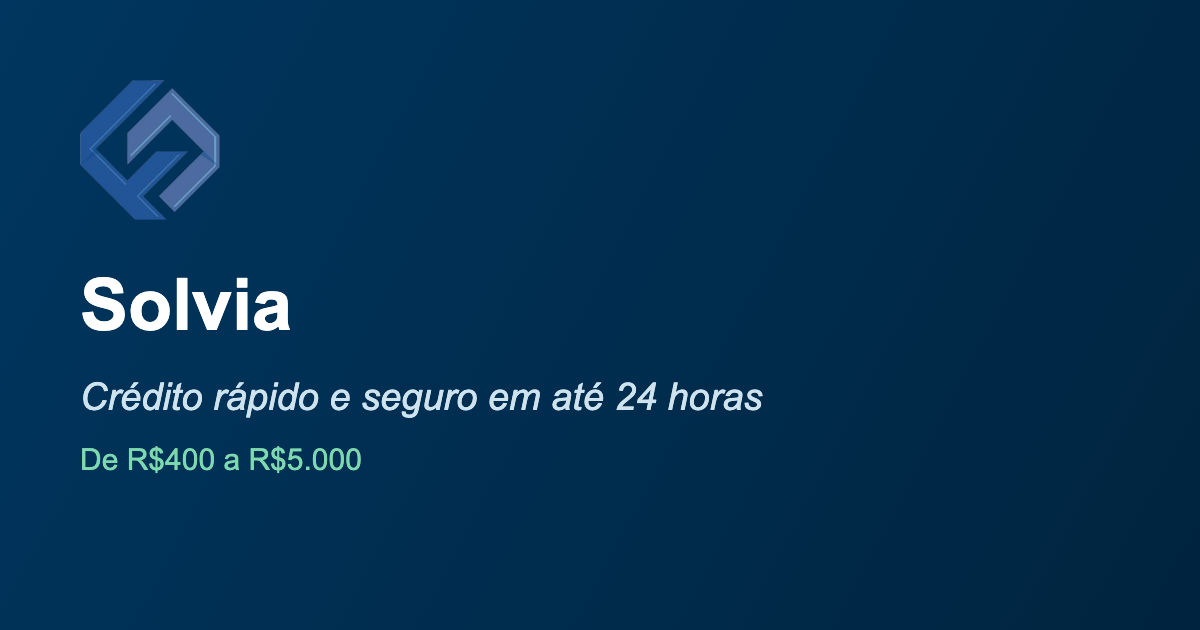
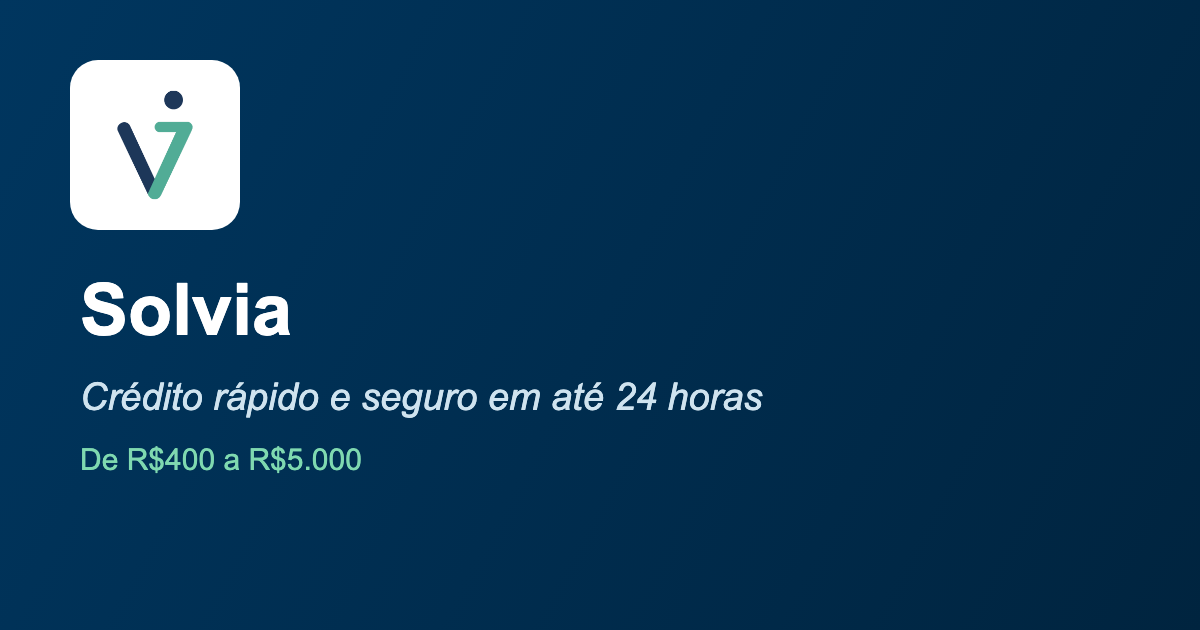
Refactor code structure for improved readability and maintainability

Changed region(s): [[0.0308, 0.0905, 0.2158, 0.3921], [0.0617, 0.4222, 0.2467, 0.5429]]

diff --git a/index.html b/index.html
@@ -38,8 +38,8 @@
       "name": "Solvia",
       "description": "Crédito rápido e seguro com liberação em até 24 horas. Sem fiador, sem burocracia excessiva — apenas com seus documentos.",
       "url": "https://solviagroup.com.br/",
-      "logo": "https://solviagroup.com.br/images/logo-icon.png",
-      "image": "https://solviagroup.com.br/images/logo-icon.png",
+      "logo": "https://solviagroup.com.br/favicon.png",
+      "image": "https://solviagroup.com.br/og-image.png",
       "telephone": "+1 555 879 3836",
       "email": "contato@solviagroup.com.br",
       "areaServed": {
